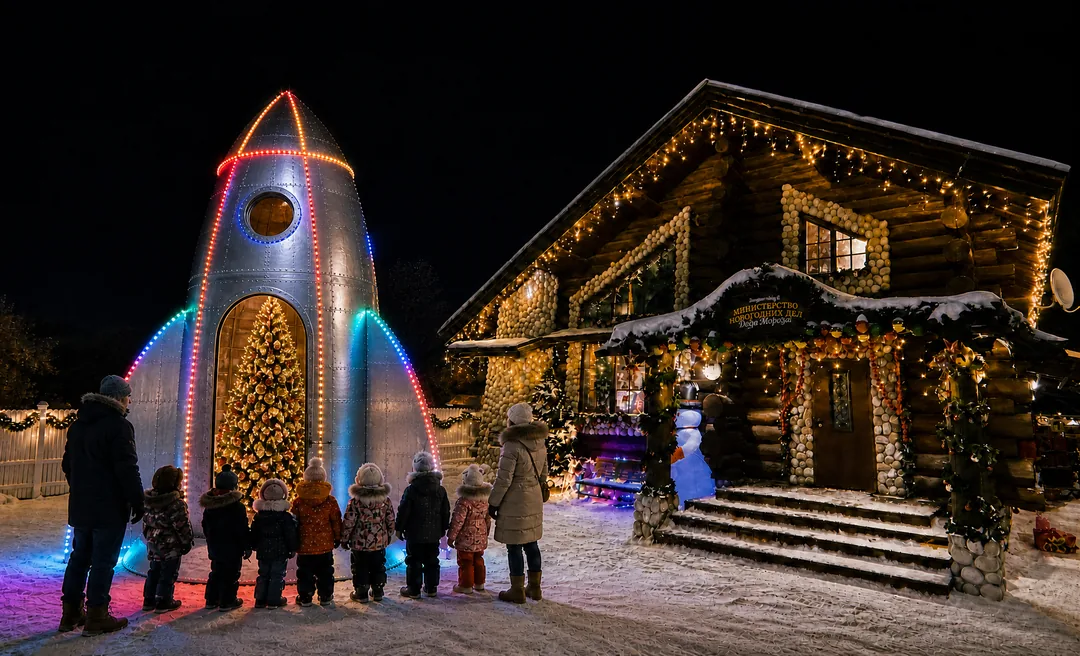
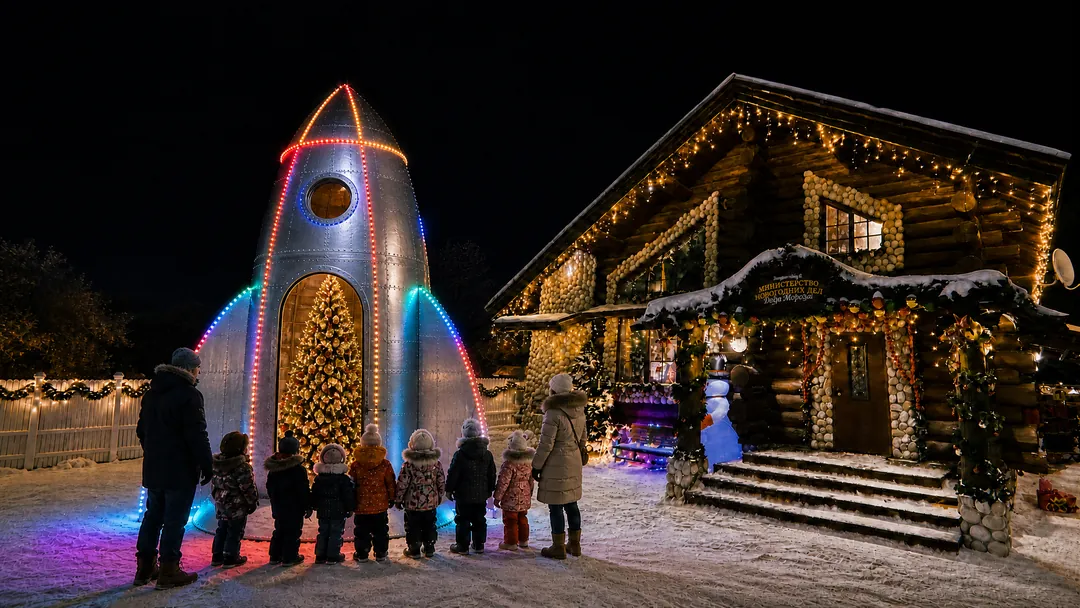
Казань, «История мероприятия»: фото как на референсе, плашка Серёги
Правки Серёги 12.09.2026:
- фотография стоит как на референсе: крупная, на нижней кромке экрана,
  уходит за правый край окна, левым краем растворяется под текстом.
  Низ больше не выцветает в фиолетовый — снег доходит до кромки.
  Расположение снято с референса поиском по приметам кадра (вывеска
  и снеговик сошлись до 4 px). Кадр теперь целиком, 2048x1152;
- текст сдвинут вправо на 1,5 см (68 пикселей макета);
- абзацы набраны регуляром вместо Medium;
- экран выше на 4 см (по 89 пикселей макета сверху и снизу);
- плашка «История мероприятия» — картинка из чата Серёги вместо
  градиента стилями. Коробка плашки по размеру самой плашки, блики
  и тень вылезают за неё и вёрстку не раздвигают.

diff --git a/kazan.html b/kazan.html
@@ -3336,15 +3336,23 @@ html.zs-lock .nav{margin-right:var(--zs-sbw,0px)}
    меняется заменой файла, а не пересборкой макета в фотошопе.
 
    ФОТОГРАФИЯ — `kz-im.webp` (плюс `kz-im-1200` и `kz-im-mob` для узких окон):
-   казанская изба с ракетой, кадр Серёги от 12.09.2026. Слева срезано 150 px
-   забора, чтобы ракета с избой встали в середину кадра; осталось 1898x1152,
-   то есть 1,648. Большой файл НЕ уменьшен: 1898 px — это всё, что есть
-   в исходнике, а монитор с двойной плотностью просит и больше.
-   Края растворены масками, а не нарисованы в файле: сверху
-   и снизу — на обёртке `.im-shot`, слева — на самой `.im-pic`. Две маски
-   на разных элементах намеренно: склейка двух масок на одном элементе
-   (`mask-composite`) в Сафари зовётся иначе и ведёт себя иначе, а вложение
-   работает везде одинаково.
+   казанская изба с ракетой, кадр Серёги от 12.09.2026, целиком 2048x1152.
+   Большой файл НЕ уменьшен: 2048 px — это всё, что есть в исходнике.
+
+   КАК ОНА СТОИТ — СНЯТО С РЕФЕРЕНСА СЧЁТОМ, а не на глаз. Три приметы кадра
+   (иллюминатор, вывеска, снеговик) найдены на снимке старого сайта поиском
+   по совпадению; сошлись вывеска и снеговик с точностью до 4 px. Оттуда:
+   - высота кадра равна ВЫСОТЕ ЭКРАНА (1101 против 1095 на референсе);
+   - верх кадра опущен на 12 % высоты экрана, низ на те же 12 % за неё
+     выходит и СРЕЗАЕТСЯ кромкой — низ фотографии не растворяется
+     (12.09.2026, прямая просьба Серёги: «внизу не закрашивать фиолетовым»);
+   - правый край так же уходит за окно: видно около 77 % ширины кадра;
+   - левый край заходит ПОД ТЕКСТ и там растворяется. На референсе колонка
+     абзацев кончается на 7-8 % ширины кадра, где он ещё почти прозрачен.
+   Растворяются только верх (маска на обёртке `.im-shot`) и левый край
+   (маска на самой `.im-pic`). Две маски на разных элементах намеренно:
+   склейка двух масок на одном элементе (`mask-composite`) в Сафари зовётся
+   иначе и ведёт себя иначе, а вложение работает везде одинаково.
 
    `--im-v` и `--im-m` — ОДИН ПИКСЕЛЬ МАКЕТА в нашем масштабе, та же механика,
    что `--u` у экранов-копий старого сайта и `--k` у экрана комнаты.
@@ -3384,10 +3392,14 @@ html.zs-lock .nav{margin-right:var(--zs-sbw,0px)}
   --im-m: calc(min(105vw, 1029px) / 1080);
   position:relative; z-index:25; isolation:isolate; overflow:hidden;
   /* Воздух сверху чуть больше, чем снизу: так было у карточки, так осталось
-     и здесь. Высоту экрана задаёт то, что выше: текстовая колонка или
-     фотография — на широких окнах они почти вровень (686 против 692 px
-     на 1920), поэтому экран не перекашивает ни в одну сторону. */
-  padding: clamp(40px,5.2vw,133px) 0 clamp(34px,4.2vw,108px);
+     и здесь. Высоту экрана задаёт ТОЛЬКО текстовая колонка: фотография
+     вынута из потока и тянется за высотой экрана, а не наоборот.
+     ПРИБАВКА 89+89 — просьба Серёги 12.09.2026 «экран по высоте на 4 см
+     больше». Считана в пикселях макета, а не в окне: 178 x --im-v — это
+     4 см на 1600 px и растёт вместе со всем остальным. */
+  padding:
+    calc(clamp(40px,5.2vw,133px) + 89 * var(--im-v)) 0
+    calc(clamp(34px,4.2vw,108px) + 89 * var(--im-v));
   /* Верх и низ ровно #000208. Снизу этого хватает: дальше идёт светлый экран 7,
      прыжок в 150 уровней, разницу в 9 никто не увидит.
      СВЕРХУ ОДНОГО ЦВЕТА НЕ ХВАТИЛО, и это стоит помнить. Афиша НЕ кончается
@@ -3462,63 +3474,69 @@ html.zs-lock .nav{margin-right:var(--zs-sbw,0px)}
 .im-sky{position:absolute; inset:0; z-index:1; display:block; width:100%; height:100%; pointer-events:none}
 
 /* ---------- полоса: текст слева, фотография справа ---------- */
-.im-wrap{position:relative; z-index:2; width:var(--im-w); margin:0 auto}
+/* Обёртка НАМЕРЕННО без `position`: тогда фотография внутри неё считает свои
+   координаты от самой секции, а не от полосы, и может выходить за её края
+   вправо и вниз. Текст держится выше фотографии своим `z-index` (см. ниже),
+   обёртке он для этого не нужен. */
+.im-wrap{width:var(--im-w); margin:0 auto}
 
-/* ФОТОГРАФИЯ идёт до правого края ОКНА, а не полосы. Вылет считается от самой
-   полосы: (ширина полосы - ширина окна)/2 — это ровно половина того, чего
-   полоса не добирает до окна, со знаком минус. Секция режет лишнее
-   (`overflow:hidden`), поэтому полоса прокрутки ничего не ломает.
-   Высоту задаёт `aspect-ratio` кадра, а не высота текста: фотография не
-   растягивается и не обрезается на широких окнах. По вертикали она стоит
-   серединой в середине полосы. */
+/* ФОТОГРАФИЯ СТОИТ НА НИЖНЕЙ КРОМКЕ ЭКРАНА и уходит за правый край окна —
+   так она стоит на референсе (числа в шапке блока). Снизу ничего не
+   растворяется: снег доходит до кромки и там кончается вместе с экраном.
+   Ширину задают два края, высоту — `aspect-ratio`; над фотографией остаётся
+   воздух примерно в 13 % высоты экрана, как на референсе.
+   `right:-11%` — вылет за окно: примерно восьмая часть кадра уходит
+   за правую кромку, там тёмная стена избы, терять нечего. Режет сама
+   секция (`overflow:hidden`).
+   Левый край считается от полосы с текстом, а не от окна: `50% - полоса/2`
+   — это левая кромка полосы, дальше отступ в пикселях макета. Поэтому
+   фотография и текст никогда не разъедутся. */
 .im-shot{
-  position:absolute; z-index:1; left:calc(712 * var(--im-v));
-  right:calc((var(--im-w) - 100vw) / 2);
-  top:50%; transform:translateY(-50%);
-  aspect-ratio:1898/1152; pointer-events:none;
-  /* Растворение верхней и нижней кромки. Числа держатся за сам кадр,
-     а не выбраны на глаз: нос ракеты стоит на 13 % высоты, ботинки детей —
-     на 91 %. Поэтому сверху растворяем до 9 % (ночное небо), снизу
-     с 88 % (снег) — и ни ракета, ни дети в туман не попадают.
-     Без нижнего растворения снег резал бы фон прямой линией. */
-  -webkit-mask-image:linear-gradient(180deg, rgba(0,0,0,0) 0%, #000 9%, #000 88%, rgba(0,0,0,0) 100%);
-          mask-image:linear-gradient(180deg, rgba(0,0,0,0) 0%, #000 9%, #000 88%, rgba(0,0,0,0) 100%);
+  position:absolute; z-index:2;
+  left:calc(50% - var(--im-w) / 2 + 470 * var(--im-v));
+  right:-11%; bottom:0;
+  aspect-ratio:2048/1152; pointer-events:none;
+  /* Растворяется ТОЛЬКО верхняя кромка, и то в ночное небо: нос ракеты стоит
+     на 13 % высоты кадра, растворение кончается на 8 % — ракету оно не трогает.
+     Низ НЕ растворяется: там снег, и он должен уйти под кромку экрана
+     как на референсе, а не выцвести в фиолетовый. */
+  -webkit-mask-image:linear-gradient(180deg, rgba(0,0,0,0) 0%, #000 8%, #000 100%);
+          mask-image:linear-gradient(180deg, rgba(0,0,0,0) 0%, #000 8%, #000 100%);
 }
-/* растворение левой кромки — на самой картинке, поверх вертикальной маски
-   обёртки. Ступень пологая: к 32 % ширины кадра фотография уже плотная,
-   а левее неё в кадре забор и тёмная фигура — им и положено растаять. */
+/* Растворение левой кромки — на самой картинке, поверх вертикальной маски
+   обёртки. Ступень длинная и пологая: под текстом кадр должен быть ещё почти
+   прозрачным (колонка абзацев кончается на 12-13 % его ширины), плотным он
+   становится к 36 %. Левее в кадре забор и тёмная фигура — им и положено
+   растаять под буквами. */
 .im-pic{
   display:block; width:100%; height:100%; object-fit:cover; object-position:50% 50%;
-  -webkit-mask-image:linear-gradient(90deg, rgba(0,0,0,0) 0%, rgba(0,0,0,.42) 14%, #000 32%);
-          mask-image:linear-gradient(90deg, rgba(0,0,0,0) 0%, rgba(0,0,0,.42) 14%, #000 32%);
+  -webkit-mask-image:linear-gradient(90deg, rgba(0,0,0,0) 0%, rgba(0,0,0,.35) 16%, #000 36%);
+          mask-image:linear-gradient(90deg, rgba(0,0,0,0) 0%, rgba(0,0,0,.35) 16%, #000 36%);
 }
 
 /* ---------- плашка «История мероприятия» ---------- */
-/* На нижегородской она вклеена в картинку карточки, здесь собрана стилями.
-   Градиент снят пипеткой с той же картинки: тёплый кирпич сверху слева
-   (158,71,57) уходит в лиловое (100,37,90) и в почти синий фиолет (38,0,122).
-   Световая полоса по бокам — со старого сайта: два псевдоэлемента СНАРУЖИ
-   плашки (слева и справа), а не один под ней. Так не нужен отрицательный
-   z-index, который в разных браузерах ныряет под разные слои. */
+/* ПЛАШКА — КАРТИНКА СЕРЁГИ (`kz-im-plashka.webp`, 1182x218, прислал в чат
+   12.09.2026), а не градиент стилями: присланное не перерисовываем.
+   В файле сама плашка занимает 608x76 (с 274-го пикселя по X и с 58-го по Y),
+   остальное — блики по бокам и мягкая тень, прозрачные.
+   Поэтому `.im-lab` — коробка РОВНО ПО РАЗМЕРУ ПЛАШКИ, а картинка лежит в ней
+   абсолютно и вылезает бликами за края. Так прозрачные поля файла не
+   раздвигают вёрстку: отступ до заголовка считается от плашки, а не от тени.
+   Размер: ширина плашки 600 пикселей макета — вровень с первой строкой
+   заголовка, как на референсе. Масштаб файла 600/608 = 0,987, отсюда все
+   числа ниже (1166 = 1182 x 0,987, 270 = 274 x 0,987, 57 = 58 x 0,987).
+   Левый край плашки на 10 левее текста — тоже с референса.
+   Меняя файл, пересчитай эти три числа по новым полям. */
 .im-lab{
-  position:relative; display:inline-block; margin:0 0 calc(46 * var(--im-v));
-  padding:calc(21 * var(--im-v)) calc(58 * var(--im-v));
-  border-radius:999px; color:#fff;
-  font-family:"Blogger Sans","Golos Text",Arial,sans-serif; font-weight:700;
-  font-size:calc(27 * var(--im-v)); line-height:1; letter-spacing:.26em;
-  text-transform:uppercase; white-space:nowrap;
-  background:linear-gradient(112deg,#9E4739 0%,#8C3A52 30%,#64255A 56%,#3A0A86 82%,#26007A 100%);
-  box-shadow:0 calc(10 * var(--im-v)) calc(34 * var(--im-v)) rgba(8,2,32,.5);
+  position:relative; display:block;
+  width:calc(600 * var(--im-v)); height:calc(75 * var(--im-v));
+  margin:0 0 calc(46 * var(--im-v)) calc(-10 * var(--im-v));
 }
-.im-lab::before,.im-lab::after{
-  content:''; position:absolute; top:58%; width:calc(430 * var(--im-v));
-  height:calc(5 * var(--im-v)); transform:translateY(-50%); pointer-events:none;
-  border-radius:999px; filter:blur(calc(2 * var(--im-v)));
+.im-lab img{
+  position:absolute; left:calc(-270 * var(--im-v)); top:calc(-57 * var(--im-v));
+  display:block; width:calc(1166 * var(--im-v)); max-width:none; height:auto;
+  pointer-events:none; user-select:none;
 }
-.im-lab::before{right:calc(100% - 12 * var(--im-v));
-  background:linear-gradient(270deg, rgba(255,206,140,.9) 0%, rgba(255,168,86,.34) 32%, rgba(255,168,86,0) 100%)}
-.im-lab::after{left:calc(100% - 12 * var(--im-v));
-  background:linear-gradient(90deg, rgba(255,206,140,.9) 0%, rgba(255,168,86,.34) 32%, rgba(255,168,86,0) 100%)}
 
 /* ---------- текст ---------- */
 /* Заголовок и абзацы лежат обычным потоком в левой колонке, а не наложены
@@ -3527,8 +3545,14 @@ html.zs-lock .nav{margin-right:var(--zs-sbw,0px)}
    `text-size-adjust` обязателен: Android Chrome раздувает мелкий текст
    в широких блоках сам, и колонка разъехалась бы. */
 .im-head,.im-body{position:relative; z-index:3;
-  -webkit-text-size-adjust:100%; text-size-adjust:100%}
-.im-head{width:calc(712 * var(--im-v))}
+  -webkit-text-size-adjust:100%; text-size-adjust:100%;
+  /* СДВИГ ВПРАВО НА 1,5 СМ — просьба Серёги 12.09.2026. В пикселях макета
+     это 68: на окне 1600 выходит ровно 1,5 см, и сдвиг едет вместе
+     со всем остальным, а не стоит намертво. */
+  margin-left:calc(68 * var(--im-v))}
+/* колонка заголовка: 660, а не 712 — после сдвига вправо он иначе подходил бы
+   вплотную к плотной части фотографии. Самая длинная строка занимает 600. */
+.im-head{width:calc(660 * var(--im-v))}
 .im-t{
   margin:0 0 calc(42 * var(--im-v)); color:#fff;
   font-family:"Blogger Sans","Golos Text",Arial,sans-serif; font-weight:700;
@@ -3543,11 +3567,11 @@ html.zs-lock .nav{margin-right:var(--zs-sbw,0px)}
      запас по 40 px в обе стороны. Разрыв в последнем абзаце держать шириной
      нельзя (окно вышло бы в 7 px), он сделан явным <br class="im-brd">. */
   width:calc(570 * var(--im-v)); color:#fff;
-  /* ЗАПАСНОЙ — «CR Blogger» (тот же Blogger Sans в весе 400), а НЕ «Blogger Sans»:
-     у того объявлен только вес 700, и если Medium не доедет, абзац наберётся
-     жирным и станет на 4 % шире — строки переползут и вылезут за колонку.
-     Regular, наоборот, на 4 % уже: разбивка та же, за колонку не выходит. */
-  font-family:"Blogger Sans Medium","CR Blogger",Arial,sans-serif; font-weight:500;
+  /* РЕГУЛЯР, а не Medium (12.09.2026, просьба Серёги «шрифт сделай регуляр»).
+     «CR Blogger» — тот же Blogger Sans в весе 400. Он на 4 % уже Medium,
+     поэтому строки стали чуть короче прежнего, но разбивка та же:
+     колонка считалась с запасом по 40 px в обе стороны. */
+  font-family:"CR Blogger","Golos Text",Arial,sans-serif; font-weight:400;
   font-size:calc(24.7 * var(--im-v)); line-height:calc(32.3 * var(--im-v));
 }
 .im-body p{margin:0}
@@ -3574,28 +3598,27 @@ html.zs-lock .nav{margin-right:var(--zs-sbw,0px)}
 @media (max-width:1023px){
   .im{padding:calc(95.5 * var(--im-m)) 0 calc(120 * var(--im-m))}
   .im-wrap{width:100%}
-  .im-head{width:auto; text-align:center}
-  /* фотография во всю ширину окна: полоса и так во всю ширину, поэтому
-     хватает 100 % — вылет считать не из чего */
+  /* сдвиг вправо — только для компьютера, здесь всё по центру */
+  .im-head{width:auto; margin-left:0; text-align:center}
+  /* фотография во всю ширину окна и обычным потоком: ни за какие края
+     она тут не выходит, высоту задаёт `aspect-ratio` */
   .im-shot{
-    position:static; transform:none; width:100%;
+    position:static; width:100%; height:auto; top:auto; left:auto;
     margin:calc(52 * var(--im-m)) 0 calc(60 * var(--im-m));
   }
   /* по бокам кадр обрезан окном, поэтому слева растворять нечего:
-     на телефоне маска у картинки снимается, остаётся только верх и низ */
+     на телефоне маска у картинки снимается, остаётся только верхняя */
   .im-pic{-webkit-mask-image:none; mask-image:none}
+  /* плашка по центру; 640 пикселей холста — та же ширина, что была у неё
+     на телефоне раньше. Масштаб файла 640/608 = 1,053 */
   .im-lab{
-    margin-bottom:calc(46 * var(--im-m));
-    padding:calc(26 * var(--im-m)) calc(60 * var(--im-m));
-    font-size:calc(33 * var(--im-m));
-    box-shadow:0 calc(12 * var(--im-m)) calc(38 * var(--im-m)) rgba(8,2,32,.5);
+    width:calc(640 * var(--im-m)); height:calc(79 * var(--im-m));
+    margin:0 auto calc(46 * var(--im-m));
   }
-  .im-lab::before,.im-lab::after{
-    width:calc(300 * var(--im-m)); height:calc(6 * var(--im-m));
-    filter:blur(calc(2.5 * var(--im-m)));
+  .im-lab img{
+    left:calc(-288 * var(--im-m)); top:calc(-61 * var(--im-m));
+    width:calc(1244 * var(--im-m));
   }
-  .im-lab::before{right:calc(100% - 14 * var(--im-m))}
-  .im-lab::after{left:calc(100% - 14 * var(--im-m))}
   /* заголовок на 15 % крупнее макета (12.09.2026, просьба Серёги
      «немного больше»); вместе с ростом блока на 5 % это 23,9 px на телефоне
      390 против прежних 19,9 */
@@ -3607,7 +3630,7 @@ html.zs-lock .nav{margin-right:var(--zs-sbw,0px)}
      мелкий»). Вместе с ростом блока это 15 px на телефоне 390 вместо 12,2 —
      вровень с остальными экранами страницы. */
   .im-body{
-    width:calc(890 * var(--im-m)); margin:0 auto;
+    width:calc(890 * var(--im-m)); margin-left:auto; margin-right:auto;
     font-size:calc(39.5 * var(--im-m)); line-height:calc(53 * var(--im-m));
   }
   .im-body p + p{margin-top:calc(53 * var(--im-m))}
@@ -9154,14 +9177,14 @@ html.zs-lock .nav{margin-right:var(--zs-sbw,0px)}
   <canvas class="im-sky" id="imSky" aria-hidden="true"></canvas>
   <div class="im-wrap">
     <div class="im-head">
-      <p class="im-lab">История мероприятия</p>
+      <p class="im-lab"><img src="kz-im-plashka.webp" width="1182" height="218" alt="История мероприятия" decoding="async" draggable="false"></p>
       <h2 class="im-t" id="imT"><b>СОБИРАЕМ</b> НОВОГОДНЮЮ<br>МИССИЮ В КОСМОС!</h2>
     </div>
     <div class="im-shot">
       <img class="im-pic" src="kz-im.webp"
-           srcset="kz-im-mob.webp 1080w, kz-im-1200.webp 1200w, kz-im.webp 1898w"
-           sizes="(max-width:1023px) 100vw, 62vw"
-           width="1898" height="1152" loading="lazy" decoding="async" draggable="false"
+           srcset="kz-im-mob.webp 1080w, kz-im-1200.webp 1200w, kz-im.webp 2048w"
+           sizes="(max-width:1023px) 100vw, 92vw"
+           width="2048" height="1152" loading="lazy" decoding="async" draggable="false"
            alt="Казанская изба Министерства новогодних дел вечером: серебряная ракета с ёлкой внутри, дети и взрослые смотрят на неё">
     </div>
     <div class="im-body">
